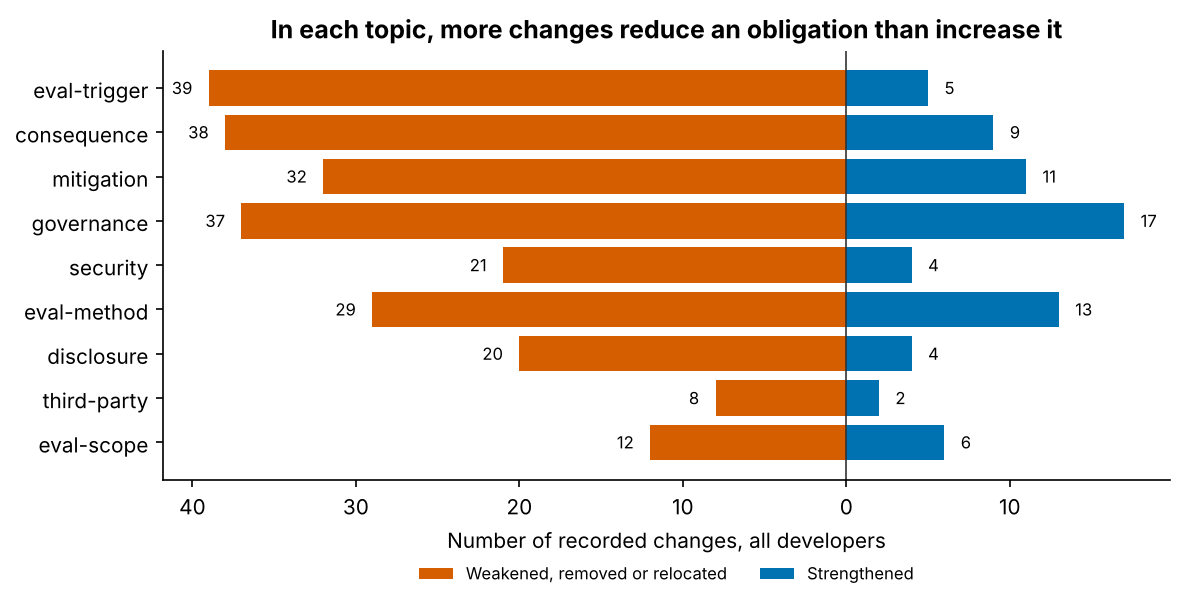
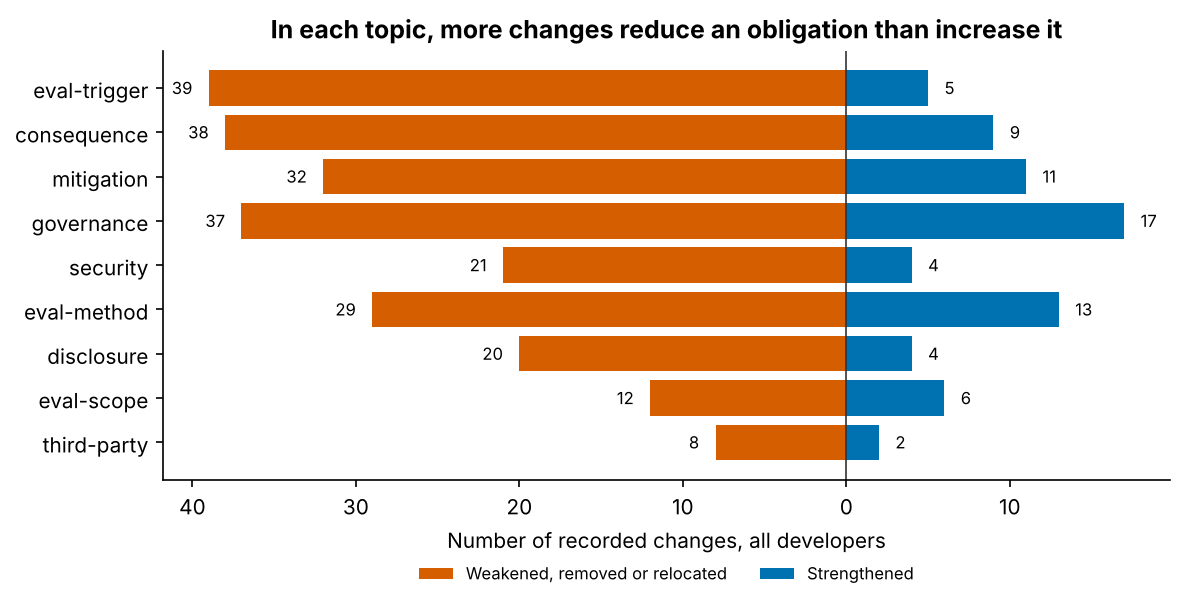
Paper figures 9 to 11: commitment strip, grouped validation plot, text change example
Claude-Session: https://claude.ai/code/session_01Tc7Pmc2a7sfjsu5hod7osH

diff --git a/paper/make_figures.py b/paper/make_figures.py
@@ -199,6 +199,115 @@ def fig8():
     save(fig, "fig8_survival_of_first_commitments.png")
 
 
+# Figure 9: one row for each xAI commitment, one column for each version.
+def fig9():
+    from matplotlib.patches import Patch
+    versions = [v for v in L["versions"] if v["lab"] == "xai"]
+    vids = [v["version_id"] for v in versions]
+    items = [c for c in L["commitments"] if c["lab"] == "xai"]
+    colour = {"baseline": "#DDDDDD", "kept": "#DDDDDD", "added": C["added"], "strengthened": C["strengthened"],
+              "weakened": C["weakened"], "removed": C["removed"], "merged": "#888888"}
+    rank = {"removed": 0, "weakened": 1, "merged": 2, "kept": 3, "baseline": 3, "strengthened": 4, "added": 5}
+
+    def key(c):
+        last = c["history"][-1]["status"]
+        return (vids.index(c["first_version_id"]), rank.get(last, 3), -len(c["history"]))
+    items.sort(key=key)
+    fig, ax = plt.subplots(figsize=(7.5, 10.5))
+    for y, c in enumerate(items):
+        by = {h["version_id"]: h["status"] for h in c["history"]}
+        for x, vid in enumerate(vids):
+            status = by.get(vid)
+            if status is None:
+                continue
+            ax.add_patch(plt.Rectangle((x + 0.04, y + 0.1), 0.92, 0.8, color=colour.get(status, "#DDDDDD"), lw=0))
+        if c["merged_into"]:
+            x = vids.index(c["last_version_id"]) + 1
+            if x < len(vids):
+                ax.add_patch(plt.Rectangle((x + 0.04, y + 0.1), 0.92, 0.8, color=colour["merged"], lw=0))
+        ax.text(-0.08, y + 0.5, c["id"].replace("xai-", ""), ha="right", va="center", fontsize=5.5, family="monospace")
+    ax.set_xlim(0, len(vids))
+    ax.set_ylim(len(items), 0)
+    ax.set_xticks([x + 0.5 for x in range(len(vids))],
+                  [v["label"].replace("draft-", "draft\n") for v in versions], fontsize=8)
+    ax.xaxis.tick_top()
+    ax.set_yticks([])
+    for side in ("left", "bottom", "top"):
+        ax.spines[side].set_visible(False)
+    ax.tick_params(length=0)
+    handles = [Patch(color="#DDDDDD", label="present, no material change"), Patch(color=C["added"], label="added"),
+               Patch(color=C["strengthened"], label="strengthened"), Patch(color=C["weakened"], label="weakened"),
+               Patch(color=C["removed"], label="removed"), Patch(color="#888888", label="merged into another row")]
+    ax.legend(handles=handles, ncol=3, frameon=False, fontsize=8, loc="upper center", bbox_to_anchor=(0.45, -0.01))
+    ax.set_title("64 xAI commitments across 5 versions: one row is one commitment", pad=28)
+    save(fig, "fig9_xai_commitment_strip.png")
+
+
+# Figure 10: validation results in two groups.
+def fig10():
+    groups = [("Model against a reference", [
+                  ("Stability: model run 2 = run 1", 113, 120),
+                  ("Direction: model = upstream code", 105, 120),
+                  ("Counterpart: model = upstream", 48, 60),
+                  ("Counterpart: text matching only (baseline)", 37, 60),
+                  ("Direction: blind human = model (Anthropic)", 34, 44),
+                  ("New commitments: model finds upstream additions", 26, 34)]),
+              ("Ledger against an independent tracker", [
+                  ("Watchtower Meta changes that are in the ledger", 15, 17),
+                  ("Watchtower xAI changes that are in the ledger", 14, 17)])]
+    fig, axes = plt.subplots(2, 1, figsize=(8.5, 4.8), sharex=True, gridspec_kw={"height_ratios": [6, 2]})
+    for ax, (title, rows) in zip(axes, groups):
+        rows = rows[::-1]
+        for y, (name, k, n) in enumerate(rows):
+            lo, hi = wilson(k, n)
+            base = "baseline" in name
+            ax.plot([lo, hi], [y, y], color="#666666", lw=1.5)
+            ax.plot(100 * k / n, y, "o", color=C["upstream"] if base else C["strengthened"], ms=7)
+            ax.text(101.5, y, f"{k} of {n}", va="center", fontsize=8)
+        ax.set_yticks(range(len(rows)), [r[0] for r in rows])
+        ax.set_ylim(-0.6, len(rows) - 0.4)
+        ax.set_xlim(40, 100)
+        ax.grid(axis="x", color="#EEEEEE")
+        ax.set_title(title, loc="left", fontsize=10)
+    axes[-1].set_xlabel("Agreement, percent. Line: 95% interval (Wilson). Do not compare the two groups.")
+    fig.suptitle("No check reaches 100%, and small samples give wide intervals", fontweight="bold", fontsize=12, x=0.5)
+    save(fig, "fig10_validation_two_groups.png")
+
+
+# Figure 11: one commitment, two versions, the change marked. The texts are verbatim.
+# Each marked phrase is on its own line, so that the figure needs no text measurement.
+def fig11():
+    old = [("For example, if a model under test achieves", False),
+           ("< 75% pass@10 success on all categories", True),
+           ("of simple capture the flag (CTF) challenges", False),
+           ("in unguided mode, we conclude that it does", False),
+           ('not exceed the "moderate or lower" risk level.', False)]
+    new = [("As discussed above, if a model under test achieves", False),
+           ("sufficiently high performance", True),
+           ("on simple suite challenges, we proceed to", False),
+           ('evaluation on "Complex" challenges to determine', False),
+           ('risk level. Otherwise, we rate its risk as', False),
+           ('"moderate or lower."', False)]
+    fig, axes = plt.subplots(1, 2, figsize=(9.5, 3.6))
+    panels = [("Version 2, April 2026", old, C["removed"], "#F6DCD6"),
+              ("Version 2.1, October 2026", new, C["weakened"], "#FFE9C2")]
+    for ax, (head, lines, colour, tint) in zip(axes, panels):
+        ax.set_xlim(0, 1); ax.set_ylim(0, 1); ax.axis("off")
+        ax.add_patch(plt.Rectangle((0, 0), 1, 1, color="#F7F7F7", lw=0))
+        ax.text(0.05, 0.9, head, fontsize=10, fontweight="bold", va="center")
+        y = 0.74
+        for line, flag in lines:
+            ax.text(0.05, y, line, fontsize=10, va="center", family="serif", color=colour if flag else "#222222",
+                    fontweight="bold" if flag else "normal",
+                    bbox=dict(facecolor=tint, edgecolor="none", pad=2.5) if flag else None)
+            y -= 0.105
+    fig.suptitle('A number becomes a judgement: "75% pass@10" is now "sufficiently high performance"',
+                 fontweight="bold", fontsize=12)
+    fig.text(0.5, -0.03, "Meta, cyber risk threshold. Commitment meta-eval-trigger-10c1. Ledger status at v2.1: weakened. "
+             "Texts are verbatim; footnote marks are left out.", ha="center", fontsize=8, color="#555555")
+    save(fig, "fig11_meta_text_change.png")
+
+
 if __name__ == "__main__":
-    for make in (fig3, fig4, fig5, fig6, fig7, fig8):
+    for make in (fig3, fig4, fig5, fig6, fig7, fig8, fig9, fig10, fig11):
         make()
